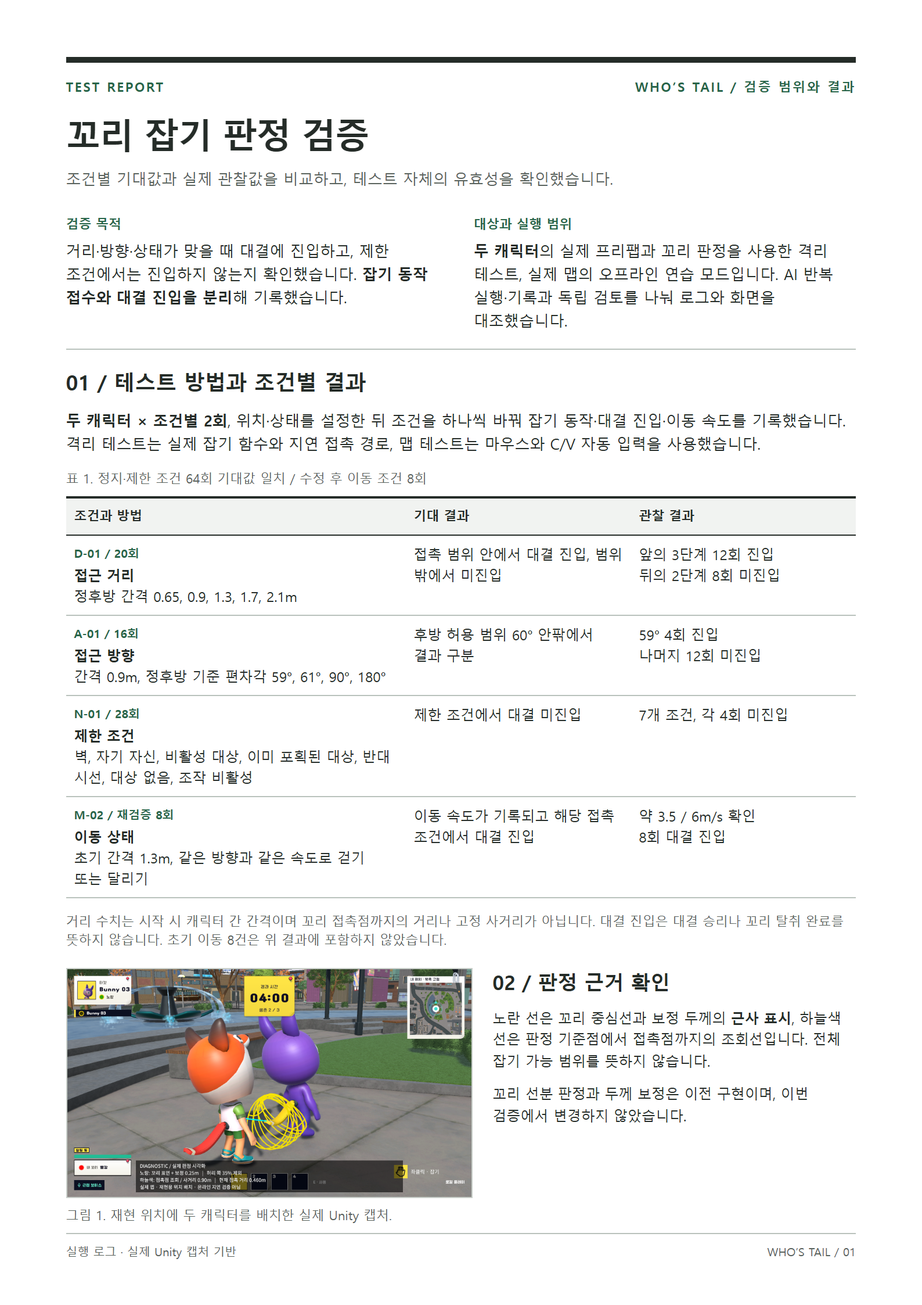
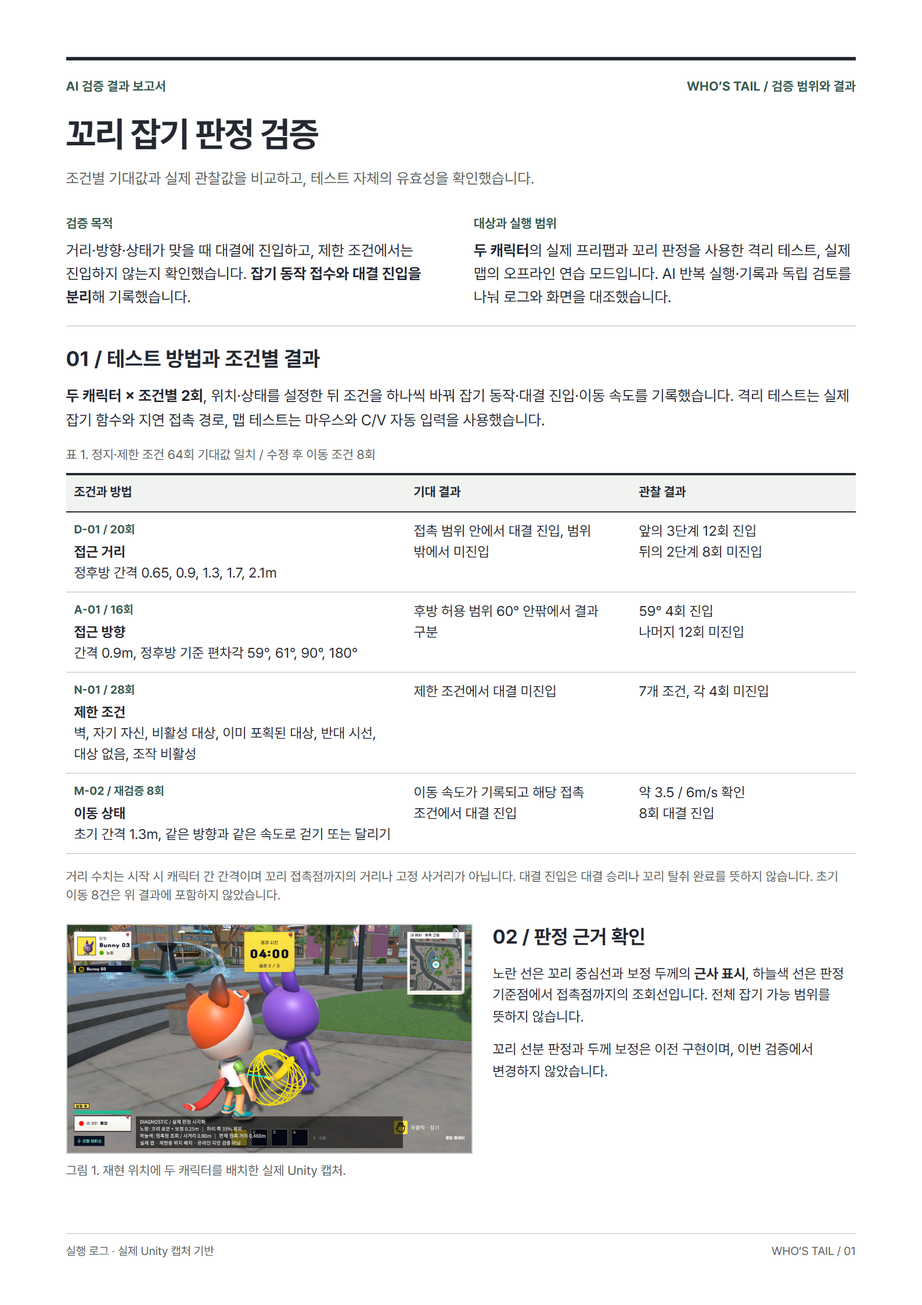
Refresh AI experience, tool roles and validation report typography

diff --git a/data.js b/data.js
@@ -34,7 +34,7 @@ window.PORTFOLIO_UNITS = [
           {
             "title": "Tools",
             "tag": "도구",
-            "html": "<p>기획 문서 작성부터 시안 제작, 데이터 검토, 작업 관리까지 업무에 맞춰 도구를 사용합니다.</p><h3>문서 관리</h3><div class=\"skill-grid\"><div class=\"skill\"><div class=\"skill-head\"><img alt=\"\" class=\"skill-ico\" src=\"images/03-250px-Microsoft_Office_PowerPoint__2025_present_.svg.webp\" width=\"250\" height=\"242\"><span class=\"skill-name\">PowerPoint</span></div><span class=\"skill-use\">게임의 컨셉과 플레이 흐름을 도식과 화면 예시로 정리</span></div><div class=\"skill\"><div class=\"skill-head\"><img alt=\"\" class=\"skill-ico\" src=\"images/04-250px-Microsoft_Office_Excel__2025_present_.svg.webp\" width=\"250\" height=\"258\"><span class=\"skill-name\">Excel</span></div><span class=\"skill-use\">스킬과 성장 수치 관리, 플레이 기록 분석과 밸런스 조정</span></div><div class=\"skill\"><div class=\"skill-head\"><img alt=\"\" class=\"skill-ico\" src=\"images/05-330px-Microsoft_Office_Word__2019_2025_.svg.webp\" width=\"330\" height=\"307\"><span class=\"skill-name\">Word</span></div><span class=\"skill-use\">기능의 동작 조건과 예외 상황을 상세 기획서로 작성</span></div><div class=\"skill\"><div class=\"skill-head\"><img alt=\"\" class=\"skill-ico\" src=\"images/06-330px-Figma-logo.svg.webp\" width=\"330\" height=\"495\"><span class=\"skill-name\">Figma</span></div><span class=\"skill-use\">UI 와이어프레임, 화면 전환과 동작 프로토타입 제작</span></div><div class=\"skill\"><div class=\"skill-head\"><img alt=\"\" class=\"skill-ico\" src=\"images/tools/confluence.svg\"/><span class=\"skill-name\">Confluence</span></div><span class=\"skill-use\">기획서와 회의록을 공유하고 결정 사항과 변경 이유를 기록</span></div></div><h3>프로젝트 관리</h3><div class=\"skill-grid\"><div class=\"skill\"><div class=\"skill-head\"><img alt=\"\" class=\"skill-ico\" src=\"images/tools/jira.svg\"/><span class=\"skill-name\">Jira</span></div><span class=\"skill-use\">작업을 이슈로 나누고 담당자, 우선순위, 진행 상태를 관리</span></div><div class=\"skill\"><div class=\"skill-head\"><img alt=\"\" class=\"skill-ico\" src=\"images/tools/git.svg\"/><span class=\"skill-name\">Git</span></div><span class=\"skill-use\">변경 내용을 비교하고 버전별 작업 이력을 관리</span></div></div><h3>개발</h3><div class=\"skill-grid\"><div class=\"skill\"><div class=\"skill-head\"><span class=\"skill-name\">C#</span></div><span class=\"skill-use\">Unity 기능의 동작을 읽고 AI와 함께 스크립트를 구현, 수정</span></div><div class=\"skill\"><div class=\"skill-head\"><img alt=\"\" class=\"skill-ico\" src=\"images/tools/lua.svg\"/><span class=\"skill-name\">Lua</span></div><span class=\"skill-use\">Lua 스크립트로 간단한 게임 로직 구현, 데이터 관리와 동작 수정</span></div><div class=\"skill\"><div class=\"skill-head\"><img alt=\"\" class=\"skill-ico\" src=\"images/02-250px-Python-logo-notext.svg.webp\" width=\"250\" height=\"250\"><span class=\"skill-name\">Python</span></div><span class=\"skill-use\">플레이 데이터를 가공하고 반복 계산과 검증 작업을 자동화</span></div><div class=\"skill\"><div class=\"skill-head\"><img alt=\"\" class=\"skill-ico\" src=\"images/07-250px-Unity_Black_icon.svg.webp\" width=\"250\" height=\"250\"><span class=\"skill-name\">Unity</span></div><span class=\"skill-use\">C# 기반 게임 기능 구현, 씬 구성과 컴포넌트 설정, 플레이 테스트를 통한 동작 조정</span></div></div><h3>3D 시안과 AI</h3><div class=\"skill-grid\"><div class=\"skill\"><div class=\"skill-head\"><img alt=\"\" class=\"skill-ico\" src=\"images/tools/blender.svg\"/><span class=\"skill-name\">Blender</span></div><span class=\"skill-use\">AI와 함께 캐릭터 리그, 모션과 상호작용 오브젝트를 제작</span></div><div class=\"skill\"><div class=\"skill-head\"><img alt=\"\" class=\"skill-ico\" src=\"images/tools/openai.svg\"/><span class=\"skill-name\">Codex</span></div><span class=\"skill-use\">기획한 기능을 작동하는 시안으로 만들고 실행 결과를 보며 수정</span></div><div class=\"skill\"><div class=\"skill-head\"><img alt=\"\" class=\"skill-ico\" src=\"images/tools/claude.svg\"/><span class=\"skill-name\">Claude</span></div><span class=\"skill-use\">기획 대안을 함께 검토하고 문서의 누락 조건과 모순을 점검</span></div><div class=\"skill\"><div class=\"skill-head\"><img alt=\"\" class=\"skill-ico\" src=\"images/tools/orca.ico\" width=\"256\" height=\"256\"><span class=\"skill-name\">Orca</span></div><span class=\"skill-use\">여러 AI 에이전트에 작업을 나눠 맡기고 병렬로 진행합니다. 에이전트별 진행 상태와 변경 내용을 확인하고, 결과를 비교하고 검토해 통합합니다.</span></div></div>"
+            "html": "<p>기획 문서 작성부터 시안 제작, 데이터 검토, 작업 관리까지 업무에 맞춰 도구를 사용합니다.</p><h3>문서 관리</h3><div class=\"skill-grid\"><div class=\"skill\"><div class=\"skill-head\"><img alt=\"\" class=\"skill-ico\" src=\"images/03-250px-Microsoft_Office_PowerPoint__2025_present_.svg.webp\" width=\"250\" height=\"242\"><span class=\"skill-name\">PowerPoint</span></div><span class=\"skill-use\">게임의 컨셉과 플레이 흐름을 도식과 화면 예시로 정리</span></div><div class=\"skill\"><div class=\"skill-head\"><img alt=\"\" class=\"skill-ico\" src=\"images/04-250px-Microsoft_Office_Excel__2025_present_.svg.webp\" width=\"250\" height=\"258\"><span class=\"skill-name\">Excel</span></div><span class=\"skill-use\">스킬과 성장 수치 관리, 플레이 기록 분석과 밸런스 조정</span></div><div class=\"skill\"><div class=\"skill-head\"><img alt=\"\" class=\"skill-ico\" src=\"images/05-330px-Microsoft_Office_Word__2019_2025_.svg.webp\" width=\"330\" height=\"307\"><span class=\"skill-name\">Word</span></div><span class=\"skill-use\">기능의 동작 조건과 예외 상황을 상세 기획서로 작성</span></div><div class=\"skill\"><div class=\"skill-head\"><img alt=\"\" class=\"skill-ico\" src=\"images/06-330px-Figma-logo.svg.webp\" width=\"330\" height=\"495\"><span class=\"skill-name\">Figma</span></div><span class=\"skill-use\">UI 와이어프레임, 화면 전환과 동작 프로토타입 제작</span></div><div class=\"skill\"><div class=\"skill-head\"><img alt=\"\" class=\"skill-ico\" src=\"images/tools/confluence.svg\"/><span class=\"skill-name\">Confluence</span></div><span class=\"skill-use\">기획서와 회의록을 공유하고 결정 사항과 변경 이유를 기록</span></div></div><h3>프로젝트 관리</h3><div class=\"skill-grid\"><div class=\"skill\"><div class=\"skill-head\"><img alt=\"\" class=\"skill-ico\" src=\"images/tools/jira.svg\"/><span class=\"skill-name\">Jira</span></div><span class=\"skill-use\">작업을 이슈로 나누고 담당자, 우선순위, 진행 상태를 관리</span></div><div class=\"skill\"><div class=\"skill-head\"><img alt=\"\" class=\"skill-ico\" src=\"images/tools/git.svg\"/><span class=\"skill-name\">Git</span></div><span class=\"skill-use\">변경 내용을 비교하고 버전별 작업 이력을 관리</span></div></div><h3>개발</h3><div class=\"skill-grid\"><div class=\"skill\"><div class=\"skill-head\"><span class=\"skill-name\">C#</span></div><span class=\"skill-use\">Unity 기능의 동작을 읽고 AI와 함께 스크립트를 구현, 수정</span></div><div class=\"skill\"><div class=\"skill-head\"><img alt=\"\" class=\"skill-ico\" src=\"images/tools/lua.svg\"/><span class=\"skill-name\">Lua</span></div><span class=\"skill-use\">Lua 스크립트로 간단한 게임 로직 구현, 데이터 관리와 동작 수정</span></div><div class=\"skill\"><div class=\"skill-head\"><img alt=\"\" class=\"skill-ico\" src=\"images/02-250px-Python-logo-notext.svg.webp\" width=\"250\" height=\"250\"><span class=\"skill-name\">Python</span></div><span class=\"skill-use\">플레이 데이터를 가공하고 반복 계산과 검증 작업을 자동화</span></div><div class=\"skill\"><div class=\"skill-head\"><img alt=\"\" class=\"skill-ico\" src=\"images/07-250px-Unity_Black_icon.svg.webp\" width=\"250\" height=\"250\"><span class=\"skill-name\">Unity</span></div><span class=\"skill-use\">C# 기반 게임 기능 구현, 씬 구성과 컴포넌트 설정, 플레이 테스트를 통한 동작 조정</span></div></div><h3>3D 시안과 AI</h3><div class=\"skill-grid\"><div class=\"skill\"><div class=\"skill-head\"><img alt=\"\" class=\"skill-ico\" src=\"images/tools/blender.svg\"/><span class=\"skill-name\">Blender</span></div><span class=\"skill-use\">Blender MCP로 AI와 연동해 리그와 모션 후보를 만들고, 고정한 조건에서 자세를 비교</span></div><div class=\"skill\"><div class=\"skill-head\"><img alt=\"\" class=\"skill-ico\" src=\"images/tools/openai.svg\"/><span class=\"skill-name\">Codex</span></div><span class=\"skill-use\">GPT-6-Astra를 3D 리소스·모션 제작에 우선 사용. 기획 시각화와 반복 테스트 구현에 활용</span></div><div class=\"skill\"><div class=\"skill-head\"><img alt=\"\" class=\"skill-ico\" src=\"images/tools/claude.svg\"/><span class=\"skill-name\">Claude Code</span></div><span class=\"skill-use\">Opus 5.5로 원문과 결과를 독립 대조하고, 기획 변경의 영향·누락 조건·모순을 검토</span></div><div class=\"skill\"><div class=\"skill-head\"><img alt=\"\" class=\"skill-ico\" src=\"images/tools/orca.ico\" width=\"256\" height=\"256\"><span class=\"skill-name\">Orca</span></div><span class=\"skill-use\">AI별 담당 범위와 완료 기준을 나눠 관리. 독립 작업을 병렬로 진행하고 결과와 검토 기록을 통합</span></div></div>"
           },
           {
             "title": "업무 방식",
@@ -44,9 +44,9 @@ window.PORTFOLIO_UNITS = [
           },
           {
             "title": "업무에서의 AI 활용 방식",
-            "tag": "기획 보조와 검증",
+            "tag": "영향 검토, 시각화, 반복 검증",
             "links": [],
-            "html": "<p>기획 의도와 판단 기준은 직접 정하고, AI는 요구사항 구체화, 시안 제작, 문서 대조와 반복 작업에 활용합니다.</p><h3>01. 기획 구체화와 논리적 오류 검토</h3><ul><li><strong>시스템 규칙을 설계할 때</strong>, 직접 정한 기획 의도와 플레이 흐름을 AI에 제공해 적용 조건, 수치 항목, 예외 상황을 구체화하고 누락 항목을 보완합니다.</li><li><strong>기능을 추가하거나 규칙을 변경할 때</strong>, AI가 기존 기획서를 함께 참조하도록 해 규칙 간 모순, 적용 조건 누락, 예외 처리 기준의 불일치를 점검하고 수정 범위를 결정합니다.</li><li><strong>계산식과 데이터를 검토할 때</strong>, 기획한 규칙과 데이터 테이블을 AI에 함께 제공해 계산 예시, 적용 조건, 예외 처리가 서로 맞는지 살펴봅니다. 검토 결과는 원문과 대조한 뒤 수정 여부를 결정합니다.</li></ul><p><a href=\"#1-1-1\">관련 기획서: 메이플 배틀 아레나의 전투 규칙과 라운드 기획 ↗</a></p><h3>02. 동작, 오브젝트 기획의 시각화와 프로토타이핑</h3><ul><li><strong>캐릭터 동작을 기획할 때</strong>, 동작 스케치, 참고 영상, 구간별 자세와 타이밍 설명을 AI에 함께 제공합니다. Blender와 AI를 연동해 캐릭터 리그의 본(Bone) 포즈와 애니메이션 키프레임을 조정하고, 기획한 움직임을 모션 시안으로 구체화합니다.</li><li><strong>상호작용 오브젝트를 기획할 때</strong>, 외형 스케치와 크기, 가동 부위, 작동 순서를 AI에 제공해 3D 목업 모델과 동작 시안을 제작합니다. 형태와 움직임을 함께 확인하며 제작 요구사항을 보완합니다.</li></ul><p><a href=\"#1-0-4\">Who’s Tail의 캐릭터 모션 제작 과정 보기 ↗</a></p><h3>03. 기획 변경 사항 추적과 작업 관리</h3><ul><li><strong>기획이 변경됐을 때</strong>, AI로 Confluence 기획서와 Jira 이슈(티켓)를 함께 확인해 영향을 받는 기능, 수정이 필요한 문서, 추가 작업을 정리하고 반영 범위를 결정합니다.</li><li><strong>개발 요청을 전달할 때</strong>, 직접 작성한 기획 내용을 바탕으로 작업 목적, 요구사항, 완료 기준을 AI로 정리하고, 팀의 기존 이슈 작성 컨벤션(제목, 본문 형식)에 맞춰 Jira 이슈 생성을 자동화합니다.</li><li><strong>진행 상황을 점검할 때</strong>, Jira 이슈와 작업 기록을 AI로 취합해 완료, 진행, 대기 항목과 기획 결정이 필요한 사항을 파악하고 우선순위를 조정합니다.</li></ul>"
+            "html": "<p>기획 작업에서 AI를 크게 세 가지 방식으로 활용합니다. <strong>기획 변경의 영향 검토, 시안 시각화, 반복 플레이 검증</strong>입니다. AI로 비교와 검증의 범위를 넓히고, 저는 기획 방향과 전달할 경험을 판단합니다.</p>\n<h3>01. 기획 변경의 영향 검토</h3>\n<p>규칙 하나를 바꾸더라도 연결된 기능과 예외 조건을 함께 살펴야 합니다. 바꾸려는 내용과 기존 기획서, 데이터를 AI에 제공해 영향을 받는 항목을 찾고, 문서와 실제 동작을 대조해 <strong>수정이 필요한 항목을 정리합니다.</strong></p>\n<p>전투 시뮬레이터를 검토할 때는 행동을 선택하며 기다리는 동안의 자원 소모, 전투 결과의 보상 표시가 기획과 다른 점을 확인했습니다. 해당 결과를 밸런스 판단에 바로 사용하지 않고, 적용할 규칙과 후속 검증 항목을 구분했습니다.</p>\n<p><a href=\"#1-5-5\">SOS의 전투 밸런스와 검증 과제 보기 →</a></p>\n<h3>02. 기획한 동작의 시각화</h3>\n<p>참고 영상과 글만으로는 원하는 자세를 전달하고 비교하기 어려웠습니다. 이를 구체화하기 위해 <strong>Codex와 Blender MCP로 모션 후보를 제작</strong>했습니다. 예시로 점프 모션에서 하체와 이동 궤적을 고정하고 팔 자세에 따른 차이를 비교했습니다.</p>\n<p>의도에 맞는 후보를 선택한 뒤 Unity에서도 확인했습니다. 엔진에 적용하며 달라진 자세는 리그 적용 방식을 보완하고 주요 자세를 다시 대조해, 제작 화면과 실제 게임에서 같은 움직임을 확인할 수 있도록 했습니다.</p>\n<p><a href=\"#1-0-4\">Who’s Tail의 모션 시안과 적용 과정 보기 →</a></p>\n<h3>03. 반복 플레이 검증</h3>\n<p>꼬리 잡기가 거리, 방향, 이동 상태에 따라 기획한 조건에서 시작되는지 확인하기 위해, <strong>두 캐릭터를 기준으로 반복 테스트와 결과 기록을 자동화</strong>했습니다. 결과 로그를 살펴보니 초기 이동 테스트는 대결이 시작돼도 실제 이동 속도가 0이어서 걷기와 달리기를 검증한 근거로 사용할 수 없었습니다.</p>\n<p>이동 입력을 전달하는 시점을 수정한 뒤 같은 조건으로 재검증했습니다. 요청한 이동 조건을 충족한 테스트가 <strong>0/8회에서 8/8회</strong>로 늘었고, 정지·제한 조건 64회에서도 기대한 대결 진입 여부와 결과가 일치했습니다. 이번 확인 범위에서는 기존 판정을 유지하고, 반복 점검에 사용할 테스트 절차를 보완했습니다.</p>\n<p><a href=\"#1-0-6\">AI 검증 결과 보고서와 실제 화면 보기 →</a></p>\n<h3>Orca 툴을 통한 역할 분담과 교차검토</h3>\n<p>3D 리소스와 모션 제작에는 <strong>Blender MCP와 연동한 Codex의 GPT-6-Astra</strong>를 우선 사용합니다. 문서와 결과의 독립 검토에는 <strong>Claude Code의 Opus 5.5</strong>를 활용해 다른 계열의 해석과 대조합니다. 도구 연동이 필요한 제작과 원문을 다시 살펴보는 검토를 나누기 위한 선택입니다.</p>\n<p>Orca 툴로 담당 범위와 완료 기준을 나누고, 서로 독립적인 제작과 분석은 병렬로 진행합니다. 결과는 같은 자료와 기준으로 확인하며, 수정할 부분과 채택할 안은 직접 판단합니다. AI에 반복·확장·검증을 맡기고, 저는 재미와 전달할 경험을 판단하며 완성도를 높이는 데 집중합니다.</p>"
           }
         ]
       }
@@ -100,7 +100,7 @@ window.PORTFOLIO_UNITS = [
           {
             "title": "6. 작업 관리, 검증과 회고",
             "tag": "PM, 협업",
-            "html": "<section id=\"tail-validation\"><h2>AI 반복 테스트를 통한 꼬리 잡기 판정 검증</h2>\n<p>두 캐릭터를 기준으로 접근 거리, 방향, 제한 상태와 이동 조건을 바꿔 반복 테스트했습니다. AI로 실행과 결과 기록을 자동화하고, 요청한 조건이 실제로 적용됐는지 로그와 화면을 대조했습니다.</p>\n<ol class=\"tail-test-summary\">\n<li><strong>테스트 과정</strong> — 정지 및 제한 조건 64회와 이동 조건 8회를 실행했습니다. 초기 이동 8회에서는 대결이 시작됐지만 측정된 이동 속도가 모두 0m/s여서, 걷기와 달리기를 검증한 결과로 사용할 수 없었습니다.</li>\n<li><strong>수정 사항</strong> — 이동 입력 공급 시점을 게임의 입력 처리 직후로 옮겨 8회를 재검증했습니다. 추가 맵 테스트에서는 매회 위치와 상태를 초기화하도록 보완하고, 4개 조건을 각각 5회씩 수정 전후로 비교했습니다.</li>\n<li><strong>향상 결과</strong> — 요청한 이동 조건을 충족한 테스트가 <strong>0/8회 → 8/8회</strong>로 늘었습니다. 맵 테스트의 반복별 입력 거리 편차는 가장 큰 조건을 기준으로 <strong>8.54m → 0.12m</strong>로 줄어, 비교할 때 출발 조건이 흔들리는 문제를 줄였습니다.</li>\n</ol>\n<p>정지·제한 64회와 수정 후 이동 8회에서는 설계 기준상 기대한 대결 진입 여부와 관찰 결과가 일치해, 기존 판정과 보정값을 유지했습니다. 개선된 테스트 절차는 이후 변경 시 같은 조건으로 비교하는 기준으로 정리했습니다.</p>\n<p class=\"wt-note\">거리 편차는 입력 순간의 판정 기준점과 꼬리 접촉점 사이 거리에 대해, 조건별 5회 측정의 최댓값−최솟값을 구한 뒤 4개 조건 중 가장 큰 값을 비교한 것입니다. 두 개선 수치는 테스트 조건의 유효성과 반복 재현성을 나타내며, 게임 판정 정확도나 시간 절감률이 아닙니다.</p>\n<div class=\"wt-pages tail-report-pages\"><figure><a href=\"images/whos-tail/report-a4/page-1.png\" target=\"_blank\" rel=\"noopener\"><img src=\"images/whos-tail/report-a4/page-1.png\" width=\"1588\" height=\"2246\" loading=\"lazy\" alt=\"꼬리 잡기 판정 테스트 보고서 1쪽\"></a><figcaption>테스트 보고서 1 / 2</figcaption></figure><figure><a href=\"images/whos-tail/report-a4/page-2.png\" target=\"_blank\" rel=\"noopener\"><img src=\"images/whos-tail/report-a4/page-2.png\" width=\"1588\" height=\"2246\" loading=\"lazy\" alt=\"꼬리 잡기 판정 테스트 보고서 2쪽\"></a><figcaption>테스트 보고서 2 / 2</figcaption></figure></div>\n<p><a href=\"docs/whos-tail/test-report-20261022.html\" target=\"_blank\" rel=\"noopener\">A4 테스트 보고서 열기 →</a></p></section>\n<h2>프로젝트 관리 — 문서 기준과 작업 일정</h2>\n<h3>Confluence의 기획 및 제작 기준 관리</h3>\n<p>PM으로서 프로젝트 개요, 기획, 제작 가이드, 스크럼 기록, 릴리스를 구분해 관리했습니다. 기능별 문서에서 변경 이유와 담당자, 진행 단계를 확인하고, 결정된 기획과 추가 검토가 필요한 내용을 나눠 후속 작업을 정리했습니다.</p>\n<h3>기능별 작업 범위와 연계 항목 확인</h3>\n<p>기획이 실제 제작으로 이어지도록 필요한 리소스와 연결된 시스템을 함께 확인했습니다. 전화부스는 모델, 문 개폐, 인원 확인, 출입 제어, 정보 선택 UI로 작업 범위를 나누고, 고블린 보상처럼 다른 기능과 연결되는 항목은 관련 담당 문서를 함께 참조했습니다. 배치가 끝난 작업과 위치 선정, 일정 검토가 남은 작업도 구분해 관리했습니다.</p>\n<h3>Jira를 통한 작업 배분과 진행 상황 관리</h3>\n<p>Jira에서는 담당자와 일정, 진행 상태를 확인하고 작업을 하위 항목으로 나눠 관리했습니다. 보드에서는 할 일, 진행 중, 검토, 완료 단계를 살피고, 백로그에서는 단계별 작업과 일정을 확인했습니다. 기획 의도와 변경 근거는 Confluence에 정리하고, 실행할 작업은 Jira에서 추적할 수 있도록 두 도구를 함께 활용했습니다.</p>\n<div class=\"wt-jira-evidence\"><figure><a href=\"images/whos-tail/jira-20261022/board.png\" target=\"_blank\" rel=\"noopener\"><img src=\"images/whos-tail/jira-20261022/board.png\" width=\"940\" height=\"815\" loading=\"lazy\" alt=\"Jira 보드: 할 일, 진행 중, 검토, 완료\"></a><figcaption>Jira 보드: 할 일, 진행 중, 검토, 완료. 실제 팀 Jira 화면입니다.</figcaption></figure><figure><a href=\"images/whos-tail/jira-20261022/backlog.png\" target=\"_blank\" rel=\"noopener\"><img src=\"images/whos-tail/jira-20261022/backlog.png\" width=\"940\" height=\"461\" loading=\"lazy\" alt=\"Jira 백로그: 단계별 작업과 일정\"></a><figcaption>Jira 백로그: 단계별 작업과 일정. 실제 팀 Jira 화면입니다.</figcaption></figure></div><p class=\"wt-note\">보드와 백로그는 촬영 당시의 작업 상태입니다. 보드에 남은 꼬리 판정 이슈의 완료 여부를 이번 자동 테스트만으로 확정하지 않았습니다.</p><h2>프로젝트 중간 회고</h2>\n<p>모션 후보마다 속도와 하체 움직임이 달라, 바꾸려던 팔 자세를 비교하기 어려웠습니다. 이를 해결하기 위해 유지할 조건과 수정할 부위를 먼저 나누고, 팔 궤적과 무릎 높이처럼 바꿀 부분을 구체적으로 지정했습니다. 꼬리 잡기에서는 오른팔의 움직임만 수정하고, 비교한 자세에서 몸통과 다른 팔다리가 유지된 것을 확인했습니다.</p>\n<p>Blender에서 선택한 자세가 Unity에서 다르게 보이는 문제도 있었습니다. Humanoid 리타게팅 설정을 점검한 뒤 같은 골격의 모션을 Generic 설정으로 가져오고, 기존 캐릭터 제어를 유지하면서 별도 리그의 자세를 전달하도록 연결했습니다. 그 결과 비교한 주요 자세가 Blender 시안과 같은 모습으로 표시되는 것을 확인했습니다. 이 경험을 통해 제작 화면의 완성도뿐 아니라 실제 게임에서의 적용 결과까지 확인하는 기준을 갖게 되었습니다.</p>\n"
+            "html": "<section id=\"tail-validation\"><h2>AI 검증 결과 보고서</h2>\n<h3>꼬리 잡기 판정과 테스트 조건 검증</h3>\n<p>두 캐릭터를 기준으로 접근 거리, 방향, 제한 상태와 이동 조건을 바꿔 반복 테스트했습니다. AI로 실행과 결과 기록을 자동화하고, 요청한 조건이 실제로 적용됐는지 로그와 화면을 대조했습니다.</p>\n<ol class=\"tail-test-summary\">\n<li><strong>테스트 과정</strong> — 정지 및 제한 조건 64회와 이동 조건 8회를 실행했습니다. 초기 이동 8회에서는 대결이 시작됐지만 측정된 이동 속도가 모두 0m/s여서, 걷기와 달리기를 검증한 결과로 사용할 수 없었습니다.</li>\n<li><strong>수정 사항</strong> — 이동 입력 공급 시점을 게임의 입력 처리 직후로 옮겨 8회를 재검증했습니다. 추가 맵 테스트에서는 매회 위치와 상태를 초기화하도록 보완하고, 4개 조건을 각각 5회씩 수정 전후로 비교했습니다.</li>\n<li><strong>향상 결과</strong> — 요청한 이동 조건을 충족한 테스트가 <strong>0/8회 → 8/8회</strong>로 늘었습니다. 맵 테스트의 반복별 입력 거리 편차는 가장 큰 조건을 기준으로 <strong>8.54m → 0.12m</strong>로 줄어, 비교할 때 출발 조건이 흔들리는 문제를 줄였습니다.</li>\n</ol>\n<p>정지·제한 64회와 수정 후 이동 8회에서는 설계 기준상 기대한 대결 진입 여부와 관찰 결과가 일치해, 기존 판정과 보정값을 유지했습니다. 개선된 테스트 절차는 이후 변경 시 같은 조건으로 비교하는 기준으로 정리했습니다.</p>\n<p class=\"wt-note\">거리 편차는 입력 순간의 판정 기준점과 꼬리 접촉점 사이 거리에 대해, 조건별 5회 측정의 최댓값−최솟값을 구한 뒤 4개 조건 중 가장 큰 값을 비교한 것입니다. 두 개선 수치는 테스트 조건의 유효성과 반복 재현성을 나타내며, 게임 판정 정확도나 시간 절감률이 아닙니다.</p>\n<div class=\"wt-pages tail-report-pages\"><figure><a href=\"images/whos-tail/report-a4/page-1.png?v=pretendard\" target=\"_blank\" rel=\"noopener\"><img src=\"images/whos-tail/report-a4/page-1.png?v=pretendard\" width=\"1588\" height=\"2246\" loading=\"lazy\" alt=\"AI 검증 결과 보고서: 꼬리 잡기 판정 1쪽\"></a><figcaption>AI 검증 결과 보고서 1 / 2</figcaption></figure><figure><a href=\"images/whos-tail/report-a4/page-2.png?v=pretendard\" target=\"_blank\" rel=\"noopener\"><img src=\"images/whos-tail/report-a4/page-2.png?v=pretendard\" width=\"1588\" height=\"2246\" loading=\"lazy\" alt=\"AI 검증 결과 보고서: 수정과 결론 2쪽\"></a><figcaption>AI 검증 결과 보고서 2 / 2</figcaption></figure></div>\n<p><a href=\"docs/whos-tail/test-report-20261022.html\" target=\"_blank\" rel=\"noopener\">AI 검증 결과 보고서 열기 →</a></p></section>\n<h2>프로젝트 관리 — 문서 기준과 작업 일정</h2>\n<h3>Confluence의 기획 및 제작 기준 관리</h3>\n<p>PM으로서 프로젝트 개요, 기획, 제작 가이드, 스크럼 기록, 릴리스를 구분해 관리했습니다. 기능별 문서에서 변경 이유와 담당자, 진행 단계를 확인하고, 결정된 기획과 추가 검토가 필요한 내용을 나눠 후속 작업을 정리했습니다.</p>\n<h3>기능별 작업 범위와 연계 항목 확인</h3>\n<p>기획이 실제 제작으로 이어지도록 필요한 리소스와 연결된 시스템을 함께 확인했습니다. 전화부스는 모델, 문 개폐, 인원 확인, 출입 제어, 정보 선택 UI로 작업 범위를 나누고, 고블린 보상처럼 다른 기능과 연결되는 항목은 관련 담당 문서를 함께 참조했습니다. 배치가 끝난 작업과 위치 선정, 일정 검토가 남은 작업도 구분해 관리했습니다.</p>\n<h3>Jira를 통한 작업 배분과 진행 상황 관리</h3>\n<p>Jira에서는 담당자와 일정, 진행 상태를 확인하고 작업을 하위 항목으로 나눠 관리했습니다. 보드에서는 할 일, 진행 중, 검토, 완료 단계를 살피고, 백로그에서는 단계별 작업과 일정을 확인했습니다. 기획 의도와 변경 근거는 Confluence에 정리하고, 실행할 작업은 Jira에서 추적할 수 있도록 두 도구를 함께 활용했습니다.</p>\n<div class=\"wt-jira-evidence\"><figure><a href=\"images/whos-tail/jira-20261022/board.png\" target=\"_blank\" rel=\"noopener\"><img src=\"images/whos-tail/jira-20261022/board.png\" width=\"940\" height=\"815\" loading=\"lazy\" alt=\"Jira 보드: 할 일, 진행 중, 검토, 완료\"></a><figcaption>Jira 보드: 할 일, 진행 중, 검토, 완료. 실제 팀 Jira 화면입니다.</figcaption></figure><figure><a href=\"images/whos-tail/jira-20261022/backlog.png\" target=\"_blank\" rel=\"noopener\"><img src=\"images/whos-tail/jira-20261022/backlog.png\" width=\"940\" height=\"461\" loading=\"lazy\" alt=\"Jira 백로그: 단계별 작업과 일정\"></a><figcaption>Jira 백로그: 단계별 작업과 일정. 실제 팀 Jira 화면입니다.</figcaption></figure></div><p class=\"wt-note\">보드와 백로그는 촬영 당시의 작업 상태입니다. 보드에 남은 꼬리 판정 이슈의 완료 여부를 이번 자동 테스트만으로 확정하지 않았습니다.</p><h2>프로젝트 중간 회고</h2>\n<p>모션 후보마다 속도와 하체 움직임이 달라, 바꾸려던 팔 자세를 비교하기 어려웠습니다. 이를 해결하기 위해 유지할 조건과 수정할 부위를 먼저 나누고, 팔 궤적과 무릎 높이처럼 바꿀 부분을 구체적으로 지정했습니다. 꼬리 잡기에서는 오른팔의 움직임만 수정하고, 비교한 자세에서 몸통과 다른 팔다리가 유지된 것을 확인했습니다.</p>\n<p>Blender에서 선택한 자세가 Unity에서 다르게 보이는 문제도 있었습니다. Humanoid 리타게팅 설정을 점검한 뒤 같은 골격의 모션을 Generic 설정으로 가져오고, 기존 캐릭터 제어를 유지하면서 별도 리그의 자세를 전달하도록 연결했습니다. 그 결과 비교한 주요 자세가 Blender 시안과 같은 모습으로 표시되는 것을 확인했습니다. 이 경험을 통해 제작 화면의 완성도뿐 아니라 실제 게임에서의 적용 결과까지 확인하는 기준을 갖게 되었습니다.</p>\n"
           }
         ],
         "projectType": "기획자 5인 팀 개발 프로젝트",

diff --git a/docs/whos-tail/test-report-20261022.html b/docs/whos-tail/test-report-20261022.html
@@ -1,8 +1,11 @@
-<!doctype html><html lang="ko"><head><meta charset="utf-8"><meta name="viewport" content="width=device-width,initial-scale=1"><title>Who’s Tail — 꼬리 잡기 판정 테스트 보고서</title><style>
-:root{--zoom:1;--ink:#252c28;--green:#286549;--line:#b9c2bc}*{box-sizing:border-box}body{margin:0;background:#dfe3df;color:var(--ink);font:13px/1.55 "Malgun Gothic","Apple SD Gothic Neo","Segoe UI",sans-serif;word-break:keep-all}main{width:max-content;margin:24px auto}.page{width:210mm;height:297mm;padding:13mm 15mm;background:white;position:relative;margin-bottom:24px;zoom:var(--zoom)}header{border-top:5px solid var(--ink);padding-top:12px;margin-bottom:20px}.eyebrow{display:flex;justify-content:space-between;font-size:11px;letter-spacing:.12em;font-weight:700;color:var(--green)}h1{font-size:30px;line-height:1.35;letter-spacing:-1px;margin:12px 0 8px}.deck{font-size:13px;color:#59625c}h2,h4{font-size:18px;margin:0 0 10px;line-height:1.4}section{margin-bottom:15px}p{margin:0 0 10px}.scope{display:grid;grid-template-columns:1fr 1fr;gap:22px;border-bottom:1px solid var(--line);padding-bottom:14px}.scope p{font-size:13px;margin:0}.label{display:block;font-size:11px;color:var(--green);font-weight:700;margin-bottom:5px}table{width:100%;border-collapse:collapse;table-layout:fixed;font-size:12px;line-height:1.5;margin:12px 0}caption{font-size:11px;color:#59625c;text-align:left;margin-bottom:7px}th,td{text-align:left;vertical-align:top;padding:7px;border-bottom:1px solid var(--line)}th{background:#f1f3f1;border-top:2px solid var(--ink);border-bottom:1px solid var(--ink);font-size:11px}th:first-child{width:43%}.tr-case{display:block;font-size:10px;font-weight:700;color:var(--green);margin-bottom:3px}.tr-note,.note{font-size:11px;color:#59625c;line-height:1.5}.diagnostic{display:grid;grid-template-columns:1.12fr 1fr;gap:17px}.diagnostic p{font-size:12px}.diagnostic h2{font-size:17px}figure{margin:0}figure a{display:block}img{width:100%;height:auto;display:block;border:1px solid #c8cec9}figcaption{font-size:11px;line-height:1.5;color:#59625c;margin-top:7px}a{color:inherit}a:focus-visible{outline:3px solid var(--green);outline-offset:4px}.metric{padding:13px 17px;background:#edf3ee;border-top:2px solid var(--green);margin-bottom:18px}.numbers{display:flex;gap:22px;align-items:baseline}.numbers strong{font-size:34px;line-height:1.35;letter-spacing:-1px}.numbers b{color:var(--green);font-size:16px}.metric p{font-size:12px;margin:4px 0 0}.steps{display:grid;grid-template-columns:1fr 1fr 1fr;gap:16px;border-bottom:1px solid var(--line);padding-bottom:14px}.steps p{font-size:12px;margin:0}.steps strong{display:block;margin:3px 0 6px}.conclusion{border-left:3px solid var(--green);padding-left:14px}.conclusion p{font-size:12px;margin:0 0 6px}.evidence{display:grid;grid-template-columns:1fr 1fr;gap:16px}.limits{border-top:1px solid var(--ink);padding-top:12px}.limits p{font-size:11px;margin-bottom:6px}.limits h2{font-size:16px}footer{position:absolute;bottom:10mm;left:15mm;right:15mm;border-top:1px solid var(--line);padding-top:7px;font-size:10px;color:#59625c;display:flex;justify-content:space-between}.page2 header{margin-bottom:16px}.page2 h1{font-size:27px}.page2 section{margin-bottom:10px}.page2{padding-top:10mm}.page2 h2{margin-bottom:8px}.page2 header{margin-bottom:12px}.page2 .steps{padding-bottom:10px}.page2 .limits{padding-top:9px}.secondary{font-size:11px;border-top:1px solid var(--line);padding-top:8px;margin-top:8px}
+<!doctype html><html lang="ko"><head><meta charset="utf-8"><meta name="viewport" content="width=device-width,initial-scale=1"><title>Who’s Tail — AI 검증 결과 보고서</title><style>
+@font-face{font-family:Pretendard;src:url('../../fonts/Pretendard-Regular.woff2') format('woff2');font-weight:400;font-display:swap}
+@font-face{font-family:Pretendard;src:url('../../fonts/Pretendard-Bold.woff2') format('woff2');font-weight:600 900;font-display:swap}
+
+:root{--zoom:1;--ink:#242831;--green:#345a50;--line:#d4dcda}*{box-sizing:border-box}body{margin:0;background:#dfe3df;color:var(--ink);font:13px/1.55 Pretendard,"Apple SD Gothic Neo","Segoe UI",sans-serif;word-break:keep-all}main{width:max-content;margin:24px auto}.page{width:210mm;height:297mm;padding:13mm 15mm;background:white;position:relative;margin-bottom:24px;zoom:var(--zoom)}header{border-top:3px solid var(--ink);padding-top:14px;margin-bottom:20px}.eyebrow{display:flex;justify-content:space-between;font-size:11px;letter-spacing:.01em;font-weight:700;color:var(--green)}h1{font-size:30px;line-height:1.35;letter-spacing:-1px;margin:12px 0 8px}.deck{font-size:13px;color:#59625c}h2,h4{font-size:18px;margin:0 0 10px;line-height:1.4}section{margin-bottom:15px}p{margin:0 0 10px}.scope{display:grid;grid-template-columns:1fr 1fr;gap:22px;border-bottom:1px solid var(--line);padding-bottom:14px}.scope p{font-size:13px;margin:0}.label{display:block;font-size:11px;color:var(--green);font-weight:700;margin-bottom:5px}table{width:100%;border-collapse:collapse;table-layout:fixed;font-size:12px;line-height:1.5;margin:12px 0}caption{font-size:11px;color:#59625c;text-align:left;margin-bottom:7px}th,td{text-align:left;vertical-align:top;padding:7px;border-bottom:1px solid var(--line)}th{background:#f1f3f1;border-top:2px solid var(--ink);border-bottom:1px solid var(--ink);font-size:11px}th:first-child{width:43%}.tr-case{display:block;font-size:10px;font-weight:700;color:var(--green);margin-bottom:3px}.tr-note,.note{font-size:11px;color:#59625c;line-height:1.5}.diagnostic{display:grid;grid-template-columns:1.12fr 1fr;gap:17px}.diagnostic p{font-size:12px}.diagnostic h2{font-size:17px}figure{margin:0}figure a{display:block}img{width:100%;height:auto;display:block;border:1px solid #c8cec9}figcaption{font-size:11px;line-height:1.5;color:#59625c;margin-top:7px}a{color:inherit}a:focus-visible{outline:3px solid var(--green);outline-offset:4px}.metric{padding:13px 17px;background:#edf3ee;border-top:2px solid var(--green);margin-bottom:18px}.numbers{display:flex;gap:22px;align-items:baseline}.numbers strong{font-size:34px;line-height:1.35;letter-spacing:-1px}.numbers b{color:var(--green);font-size:16px}.metric p{font-size:12px;margin:4px 0 0}.steps{display:grid;grid-template-columns:1fr 1fr 1fr;gap:16px;border-bottom:1px solid var(--line);padding-bottom:14px}.steps p{font-size:12px;margin:0}.steps strong{display:block;margin:3px 0 6px}.conclusion{border-left:3px solid var(--green);padding-left:14px}.conclusion p{font-size:12px;margin:0 0 6px}.evidence{display:grid;grid-template-columns:1fr 1fr;gap:16px}.limits{border-top:1px solid var(--ink);padding-top:12px}.limits p{font-size:11px;margin-bottom:6px}.limits h2{font-size:16px}footer{position:absolute;bottom:10mm;left:15mm;right:15mm;border-top:1px solid var(--line);padding-top:7px;font-size:10px;color:#59625c;display:flex;justify-content:space-between}.page2 header{margin-bottom:16px}.page2 h1{font-size:27px}.page2 section{margin-bottom:10px}.page2{padding-top:10mm}.page2 h2{margin-bottom:8px}.page2 header{margin-bottom:12px}.page2 .steps{padding-bottom:10px}.page2 .limits{padding-top:9px}.secondary{font-size:11px;border-top:1px solid var(--line);padding-top:8px;margin-top:8px}
 @page{size:A4;margin:0}@media print{body{background:white}main{margin:0;width:auto}.page{margin:0;zoom:1;break-after:page}.page:last-child{break-after:auto}*{-webkit-print-color-adjust:exact;print-color-adjust:exact}a{text-decoration:none}}
-</style></head><body><main><article class="page"><header><div class="eyebrow"><span>TEST REPORT</span><span>WHO’S TAIL / 검증 범위와 결과</span></div><h1>꼬리 잡기 판정 검증</h1><p class="deck">조건별 기대값과 실제 관찰값을 비교하고, 테스트 자체의 유효성을 확인했습니다.</p></header>
-<section class="scope"><div><span class="label">검증 목적</span><p>거리·방향·상태가 맞을 때 대결에 진입하고, 제한 조건에서는 진입하지 않는지 확인했습니다. <strong>잡기 동작 접수와 대결 진입을 분리</strong>해 기록했습니다.</p></div><div><span class="label">대상과 실행 범위</span><p><strong>두 캐릭터</strong>의 실제 프리팹과 꼬리 판정을 사용한 격리 테스트, 실제 맵의 오프라인 연습 모드입니다. AI 반복 실행·기록과 독립 검토를 나눠 로그와 화면을 대조했습니다.</p></div></section><section><h2>01 / 테스트 방법과 조건별 결과</h2><p><strong>두 캐릭터 × 조건별 2회</strong>, 위치·상태를 설정한 뒤 조건을 하나씩 바꿔 잡기 동작·대결 진입·이동 속도를 기록했습니다. 격리 테스트는 실제 잡기 함수와 지연 접촉 경로, 맵 테스트는 마우스와 C/V 자동 입력을 사용했습니다.</p><table><caption>표 1. 정지·제한 조건 64회 기대값 일치 / 수정 후 이동 조건 8회</caption><thead><tr><th scope="col">조건과 방법</th><th scope="col">기대 결과</th><th scope="col">관찰 결과</th></tr></thead><tbody><tr><td><span class="tr-case">D-01 / 20회</span><strong>접근 거리</strong><br>정후방 간격 0.65, 0.9, 1.3, 1.7, 2.1m</td><td data-label="기대 결과">접촉 범위 안에서 대결 진입, 범위 밖에서 미진입</td><td data-label="관찰 결과">앞의 3단계 12회 진입<br>뒤의 2단계 8회 미진입</td></tr><tr><td><span class="tr-case">A-01 / 16회</span><strong>접근 방향</strong><br>간격 0.9m, 정후방 기준 편차각 59°, 61°, 90°, 180°</td><td data-label="기대 결과">후방 허용 범위 60° 안팎에서 결과 구분</td><td data-label="관찰 결과">59° 4회 진입<br>나머지 12회 미진입</td></tr><tr><td><span class="tr-case">N-01 / 28회</span><strong>제한 조건</strong><br>벽, 자기 자신, 비활성 대상, 이미 포획된 대상, 반대 시선, 대상 없음, 조작 비활성</td><td data-label="기대 결과">제한 조건에서 대결 미진입</td><td data-label="관찰 결과">7개 조건, 각 4회 미진입</td></tr><tr><td><span class="tr-case">M-02 / 재검증 8회</span><strong>이동 상태</strong><br>초기 간격 1.3m, 같은 방향과 같은 속도로 걷기 또는 달리기</td><td data-label="기대 결과">이동 속도가 기록되고 해당 접촉 조건에서 대결 진입</td><td data-label="관찰 결과">약 3.5 / 6m/s 확인<br>8회 대결 진입</td></tr></tbody></table><p class="tr-note">거리 수치는 시작 시 캐릭터 간 간격이며 꼬리 접촉점까지의 거리나 고정 사거리가 아닙니다. 대결 진입은 대결 승리나 꼬리 탈취 완료를 뜻하지 않습니다. 초기 이동 8건은 위 결과에 포함하지 않았습니다.</p></section><section class="diagnostic"><figure><a href="../../images/whos-tail/validation-20261022/contact-diagnostic.png" target="_blank" rel="noopener"><img src="../../images/whos-tail/validation-20261022/contact-diagnostic.png" width="1920" height="1080" loading="eager" alt="실제 Unity 맵의 꼬리 접촉 진단 화면"></a><figcaption>그림 1. 재현 위치에 두 캐릭터를 배치한 실제 Unity 캡처.</figcaption></figure><div><h2>02 / 판정 근거 확인</h2><p>노란 선은 꼬리 중심선과 보정 두께의 <strong>근사 표시</strong>, 하늘색 선은 판정 기준점에서 접촉점까지의 조회선입니다. 전체 잡기 가능 범위를 뜻하지 않습니다.</p><p>꼬리 선분 판정과 두께 보정은 이전 구현이며, 이번 검증에서 변경하지 않았습니다.</p></div></section><footer><span>실행 로그 · 실제 Unity 캡처 기반</span><span>WHO’S TAIL / 01</span></footer></article><article class="page page2"><header><div class="eyebrow"><span>TEST REPORT</span><span>WHO’S TAIL / 수정과 결론</span></div><h1>이동 입력을 바로잡아, 검증 근거를 확보</h1><p class="deck">게임 판정은 유지하고, 요청한 이동 조건이 실제로 수행되는지 재검증했습니다.</p></header>
+</style></head><body><main><article class="page"><header><div class="eyebrow"><span>AI 검증 결과 보고서</span><span>WHO’S TAIL / 검증 범위와 결과</span></div><h1>꼬리 잡기 판정 검증</h1><p class="deck">조건별 기대값과 실제 관찰값을 비교하고, 테스트 자체의 유효성을 확인했습니다.</p></header>
+<section class="scope"><div><span class="label">검증 목적</span><p>거리·방향·상태가 맞을 때 대결에 진입하고, 제한 조건에서는 진입하지 않는지 확인했습니다. <strong>잡기 동작 접수와 대결 진입을 분리</strong>해 기록했습니다.</p></div><div><span class="label">대상과 실행 범위</span><p><strong>두 캐릭터</strong>의 실제 프리팹과 꼬리 판정을 사용한 격리 테스트, 실제 맵의 오프라인 연습 모드입니다. AI 반복 실행·기록과 독립 검토를 나눠 로그와 화면을 대조했습니다.</p></div></section><section><h2>01 / 테스트 방법과 조건별 결과</h2><p><strong>두 캐릭터 × 조건별 2회</strong>, 위치·상태를 설정한 뒤 조건을 하나씩 바꿔 잡기 동작·대결 진입·이동 속도를 기록했습니다. 격리 테스트는 실제 잡기 함수와 지연 접촉 경로, 맵 테스트는 마우스와 C/V 자동 입력을 사용했습니다.</p><table><caption>표 1. 정지·제한 조건 64회 기대값 일치 / 수정 후 이동 조건 8회</caption><thead><tr><th scope="col">조건과 방법</th><th scope="col">기대 결과</th><th scope="col">관찰 결과</th></tr></thead><tbody><tr><td><span class="tr-case">D-01 / 20회</span><strong>접근 거리</strong><br>정후방 간격 0.65, 0.9, 1.3, 1.7, 2.1m</td><td data-label="기대 결과">접촉 범위 안에서 대결 진입, 범위 밖에서 미진입</td><td data-label="관찰 결과">앞의 3단계 12회 진입<br>뒤의 2단계 8회 미진입</td></tr><tr><td><span class="tr-case">A-01 / 16회</span><strong>접근 방향</strong><br>간격 0.9m, 정후방 기준 편차각 59°, 61°, 90°, 180°</td><td data-label="기대 결과">후방 허용 범위 60° 안팎에서 결과 구분</td><td data-label="관찰 결과">59° 4회 진입<br>나머지 12회 미진입</td></tr><tr><td><span class="tr-case">N-01 / 28회</span><strong>제한 조건</strong><br>벽, 자기 자신, 비활성 대상, 이미 포획된 대상, 반대 시선, 대상 없음, 조작 비활성</td><td data-label="기대 결과">제한 조건에서 대결 미진입</td><td data-label="관찰 결과">7개 조건, 각 4회 미진입</td></tr><tr><td><span class="tr-case">M-02 / 재검증 8회</span><strong>이동 상태</strong><br>초기 간격 1.3m, 같은 방향과 같은 속도로 걷기 또는 달리기</td><td data-label="기대 결과">이동 속도가 기록되고 해당 접촉 조건에서 대결 진입</td><td data-label="관찰 결과">약 3.5 / 6m/s 확인<br>8회 대결 진입</td></tr></tbody></table><p class="tr-note">거리 수치는 시작 시 캐릭터 간 간격이며 꼬리 접촉점까지의 거리나 고정 사거리가 아닙니다. 대결 진입은 대결 승리나 꼬리 탈취 완료를 뜻하지 않습니다. 초기 이동 8건은 위 결과에 포함하지 않았습니다.</p></section><section class="diagnostic"><figure><a href="../../images/whos-tail/validation-20261022/contact-diagnostic.png" target="_blank" rel="noopener"><img src="../../images/whos-tail/validation-20261022/contact-diagnostic.png" width="1920" height="1080" loading="eager" alt="실제 Unity 맵의 꼬리 접촉 진단 화면"></a><figcaption>그림 1. 재현 위치에 두 캐릭터를 배치한 실제 Unity 캡처.</figcaption></figure><div><h2>02 / 판정 근거 확인</h2><p>노란 선은 꼬리 중심선과 보정 두께의 <strong>근사 표시</strong>, 하늘색 선은 판정 기준점에서 접촉점까지의 조회선입니다. 전체 잡기 가능 범위를 뜻하지 않습니다.</p><p>꼬리 선분 판정과 두께 보정은 이전 구현이며, 이번 검증에서 변경하지 않았습니다.</p></div></section><footer><span>실행 로그 · 실제 Unity 캡처 기반</span><span>WHO’S TAIL / 01</span></footer></article><article class="page page2"><header><div class="eyebrow"><span>AI 검증 결과 보고서</span><span>WHO’S TAIL / 수정과 결론</span></div><h1>이동 입력을 바로잡아, 검증 근거를 확보</h1><p class="deck">게임 판정은 유지하고, 요청한 이동 조건이 실제로 수행되는지 재검증했습니다.</p></header>
 <section class="metric"><span class="label">요청한 걷기·달리기 조건 충족률</span><div class="numbers"><strong>0% → 100%</strong><b>+100%p</b></div><p><strong>수정 전 0/8회 → 수정 후 8/8회.</strong> 두 캐릭터의 입력·접촉 표본 속도가 요청값의 ±1% 이내인 사례 비율입니다. 대결 진입은 전후 모두 8/8로, 제품 정확도 개선율이 아닙니다.</p></section>
 <section><h2>03 / 테스트 입력 오류 → 수정 → 재검증</h2><div class="steps"><div><span class="label">초기 8회 · 제외</span><strong>이동 조건 입증 불가</strong><p>대결은 시작됐지만 두 캐릭터의 PlanarSpeed는 모두 0이었습니다. 잡기 모션의 슬라이드만으로 걷기·달리기 수행을 입증할 수 없어 제외했습니다.</p></div><div><span class="label">테스트 코드 수정</span><strong>입력 공급 시점 변경</strong><p>입력 공급을 에디터 갱신에서 Unity 입력 처리 직후(InputSystem.onAfterUpdate)로 옮겨, 입력 시점의 불일치를 바로잡았습니다.</p></div><div><span class="label">재검증 8회 · 채택</span><strong>실제 이동 속도 확인</strong><p>같은 캐릭터·초기 간격·걷기 및 달리기 조건으로 실행했습니다. 약 3.5 / 6m/s, 위치 변화와 대결 진입 8회를 확인했습니다.</p></div></div></section>
 <section class="conclusion"><h2>결론: 판정 유지, 테스트 유효성 보완</h2><p>정지·제한 조건 <strong>64회는 기대값과 일치</strong>했고, 수정 후 이동 <strong>8회는 실제 속도와 대결 진입을 함께 확인</strong>했습니다. 검사 범위에서 새 판정 오류가 재현되지 않아 사거리와 두께 보정값을 유지했습니다.</p><p>게임 코드·씬·기획 수치는 유지했습니다. <strong>보완한 입력·준비 절차</strong>는 향후 반복 점검에 활용할 수 있습니다.</p></section>

diff --git a/index.html b/index.html
@@ -440,7 +440,7 @@ h1,h2,h3,h4,.hero-role{font-family:NanumSquareNeoExtraBold,Pretendard,sans-serif
 #previewNotice{padding:12px 20px;background:#315f80;color:white;font:14px Pretendard,sans-serif;text-align:center}#previewNotice a{color:white;text-decoration:underline;margin-left:16px}
 @media(max-width:640px){.pf-columns,[data-columns="2"]{grid-template-columns:minmax(0,1fr)!important}}
 </style>
-<script src="data.js?v=20261022-report-a4"></script>
+<script src="data.js?v=20261022-ai-refresh"></script>
 <script>
 if (new URLSearchParams(location.search).has("preview")){
   let previewLoaded = false;

diff --git a/CLAUDE.md b/CLAUDE.md
@@ -6,6 +6,14 @@
 
 아래 프로젝트 맥락을 확인한 뒤 [AI_WORKFLOW.md](AI_WORKFLOW.md)의 시작 순서, 모델 배정, 작업 분담, 검증 및 종료 규칙을 적용하라. 작업 유형에 해당하는 절차만 실행하고, 사용자의 현재 지시와 이미 허용된 범위를 우선하라.
 
+## 2026-10-22 AI 활용 소개와 지원서 갱신
+
+- About Me의 AI 활용은 `기획 변경의 영향 검토, 시안 시각화, 반복 플레이 검증`의 세 가지로 설명한다. 각 사례의 문제, AI 활용, 확인 결과를 연결하고 관련 프로젝트 항목으로 이동할 수 있게 한다. Tools의 Codex, Claude Code, Blender, Orca 설명도 같은 역할 분담으로 맞춘다.
+- 3D 리소스·모션 제작의 Codex GPT-6-Astra 및 Blender MCP, 독립 검토의 Claude Code Opus 5.5는 실제 사용 역할로 설명한다. 모델 성능 우위나 측정하지 않은 시간 절감률을 주장하지 않는다. 실행 근거 없는 Jira 자동화 문구는 제거했다.
+- Who’s Tail의 A4 두 쪽은 `AI 검증 결과 보고서`로 표시하며 본문과 제목에 로컬 Pretendard를 사용한다. 기획서와 구분되는 문서 형식, 날짜 제외, 실제 수치와 검증 범위는 유지한다.
+- 비공개 입사지원서의 최신 원고와 디자인을 현재 포트폴리오에 맞춰 갱신한다. 지원동기는 학업에서 결과물을 체감하기 어려웠던 개인 경험, 동아리 게임 전시, 기획 직무 선택, AI 시안·검증을 판단한 강점 순서로 작성한다. 과거 C안의 가정 사례는 실제 테스트 결과로 교체한다. 공개 커밋에는 지원서를 넣지 않는다.
+- 작업·검토·배포 기록: `.work/ai-runs/ai-refresh-20261022/`.
+
 
 ## 2026-10-22 A4 보고서와 관리 경험 중심 후속 수정
 
